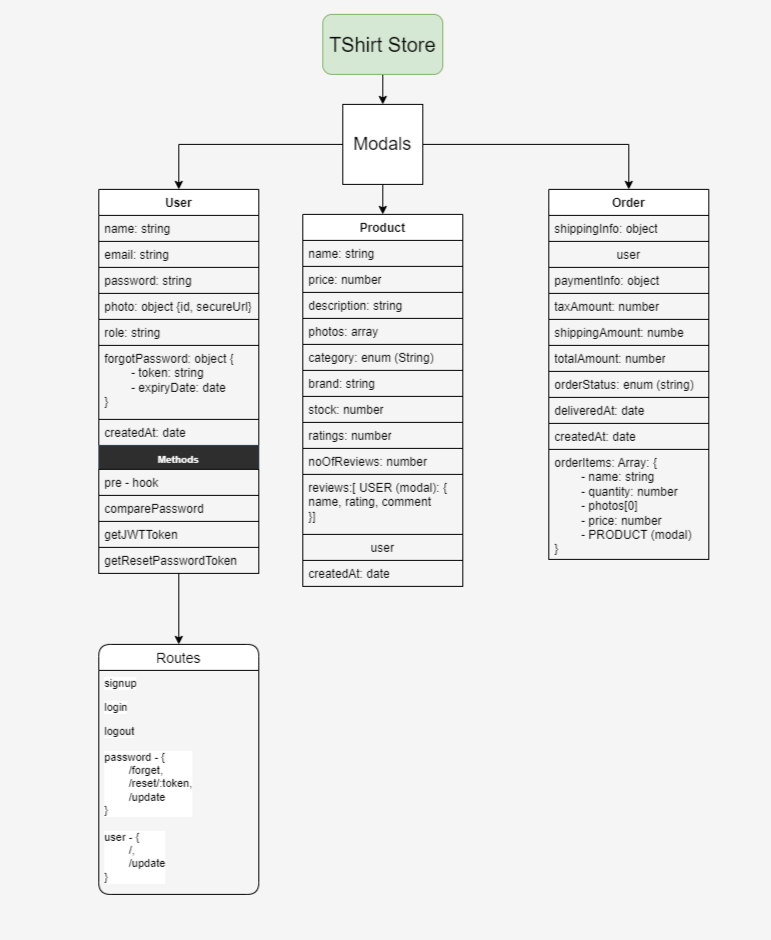
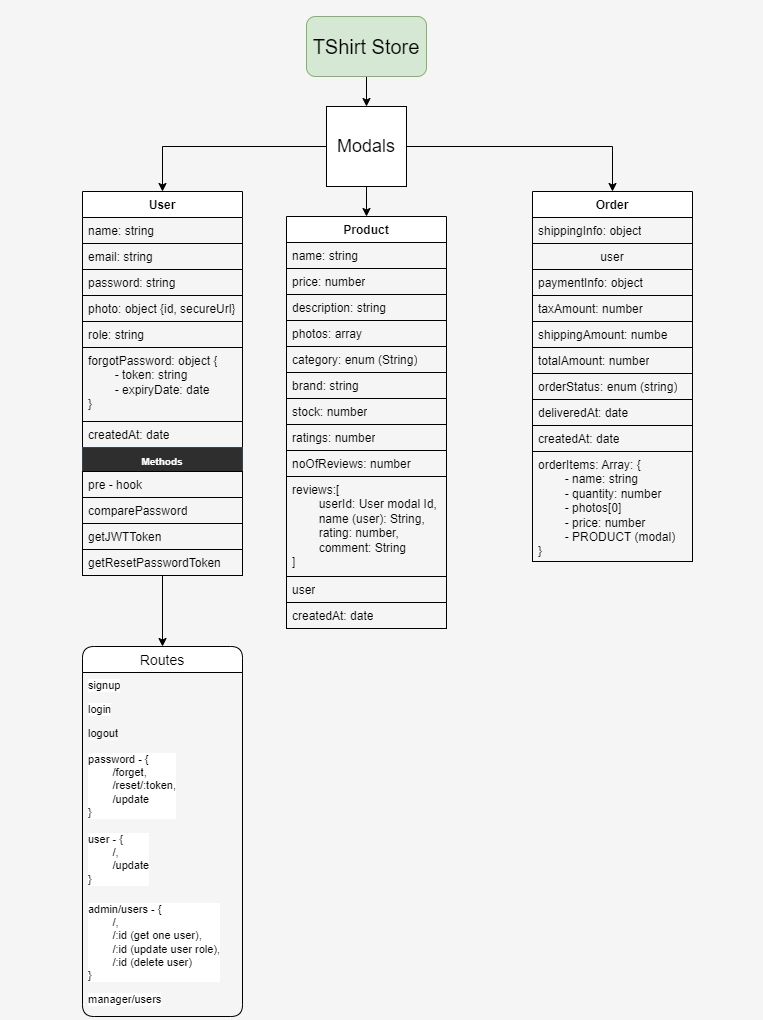
Create, product model, update erd and update users folder in cloudinary

Changed region(s): [[0.0904, 0.0, 0.8139, 1.0], [0.6933, 0.1543, 0.9345, 0.5862], [0.3014, 0.6787, 0.3316, 0.7096]]

diff --git a/course_3(Udemy-ProJSBackend)/tShirtStore/models/product.js b/course_3(Udemy-ProJSBackend)/tShirtStore/models/product.js
@@ -1,0 +1,81 @@
+const { Schema, model } = require('mongoose');
+
+const productSchema = new Schema({
+    name: {
+        type: String,
+        required: [true, 'Please provide product name'],
+        trim: true  // Just like javascript trim()
+    },
+    price: {
+        type: Number,
+        required: [true, 'Please provide product price']
+    },
+    description: {
+        type: Number,
+        required: [true, 'Please provide product description']
+    },
+    photos: [{
+        id: {
+            type: String,
+            required: true
+        },
+        secure_url: {
+            type: String,
+            required: true
+        }
+    }],
+    category: {
+        type: String,
+        required: [true, 'Please select category from - short-sleeves, long-sleeves, sweat-shirts, hoodies'],
+        enum: {
+            values: ['shortSleeves', 'longSleeves', 'sweatShirts', 'hoodies'],
+            message: 'Please select category only from - short-sleeves, long-sleeves, sweat-shirts, hoodies'    // If nothing or something else is provided, then it'll be shown
+        }
+    },
+    brand: {
+        type: String,
+        required: [true, 'Please provide product brand']
+    },
+    // stock: {
+    //     type: String,
+    //     required: [true, 'Please provide product price']
+    // },
+    ratings: {
+        type: Number,
+        default: 0
+    },
+    noOfReviews: {
+        type: Number,
+        default: 0
+    },
+    reviews: [{
+        user: {
+            type: Schema.ObjectId,
+            ref: 'User',
+            required: true
+        },
+        name: {
+            type: String,
+            required: true
+        },
+        rating: {
+            type: Number,
+            required: true
+        },
+        comment: {
+            type: String,
+            required: true
+        }
+    }],
+    user: {
+        type: Schema.ObjectId,
+        ref: 'User',
+        required: true
+    },
+    createdAt: {
+        type: Date,
+        default: Date.now()
+    }
+})
+
+module.exports = model('Product', productSchema)

diff --git a/course_3(Udemy-ProJSBackend)/tShirtStore/controllers/user.js b/course_3(Udemy-ProJSBackend)/tShirtStore/controllers/user.js
@@ -18,7 +18,7 @@ const signup = promise(async (req, res, next) => {
     }
 
     let file = req.files.photo
-    let result = await cloudinary.v2.uploader.upload(file.tempFilePath, { folder: "tshirt-store" })
+    let result = await cloudinary.v2.uploader.upload(file.tempFilePath, { folder: "tshirt-store/users" })
 
     const user = await User.create({
         username,
@@ -167,7 +167,7 @@ const updateUser = promise(async (req, res, next) => {
     if (req.files) {
         const imageId = req.user.photo.id
         await cloudinary.v2.uploader.destroy(imageId)
-        const result = await cloudinary.v2.uploader.upload(req.files.photo.tempFilePath, { folder: "users" })
+        const result = await cloudinary.v2.uploader.upload(req.files.photo.tempFilePath, { folder: "tshirt-store/users" })
 
         newData.photo = {
             id: result.public_id,

diff --git a/README.md b/README.md
@@ -371,6 +371,29 @@ It's Email Delivery Platform that allows customers to manage the email infrastru
 
 >Important: These credentials are not meant to be pushed to git or somewhere else, so make sure to put these credentials in `.env` file.
 
+### Query replacement using Regex
+
+```javascript
+const p = 'gte gte lte mygte gtetest'
+const regex = /\b(gte|lte|...)\b/g
+console.log(p.replace(regex, m => `$${m}`))
+
+--------------------------------------------
+
+Output: `$gte $gte $lte mygte gtetest`
+```
+
+The matching keys are:
+
+- `gte` = Greater than and equal to (>=)
+- `gt` = Greater than (>)
+- `lte` = Less than and equal to (<=)
+- `lt` = Less than (<)
+- `eq` = Equal to (==)
+- `ne` = Not equal to (!=)
+- `in` = Not In
+- `nin` = Not in
+
 ### Some extra points
 
 - `multipart/form-data` = A data type for media files
